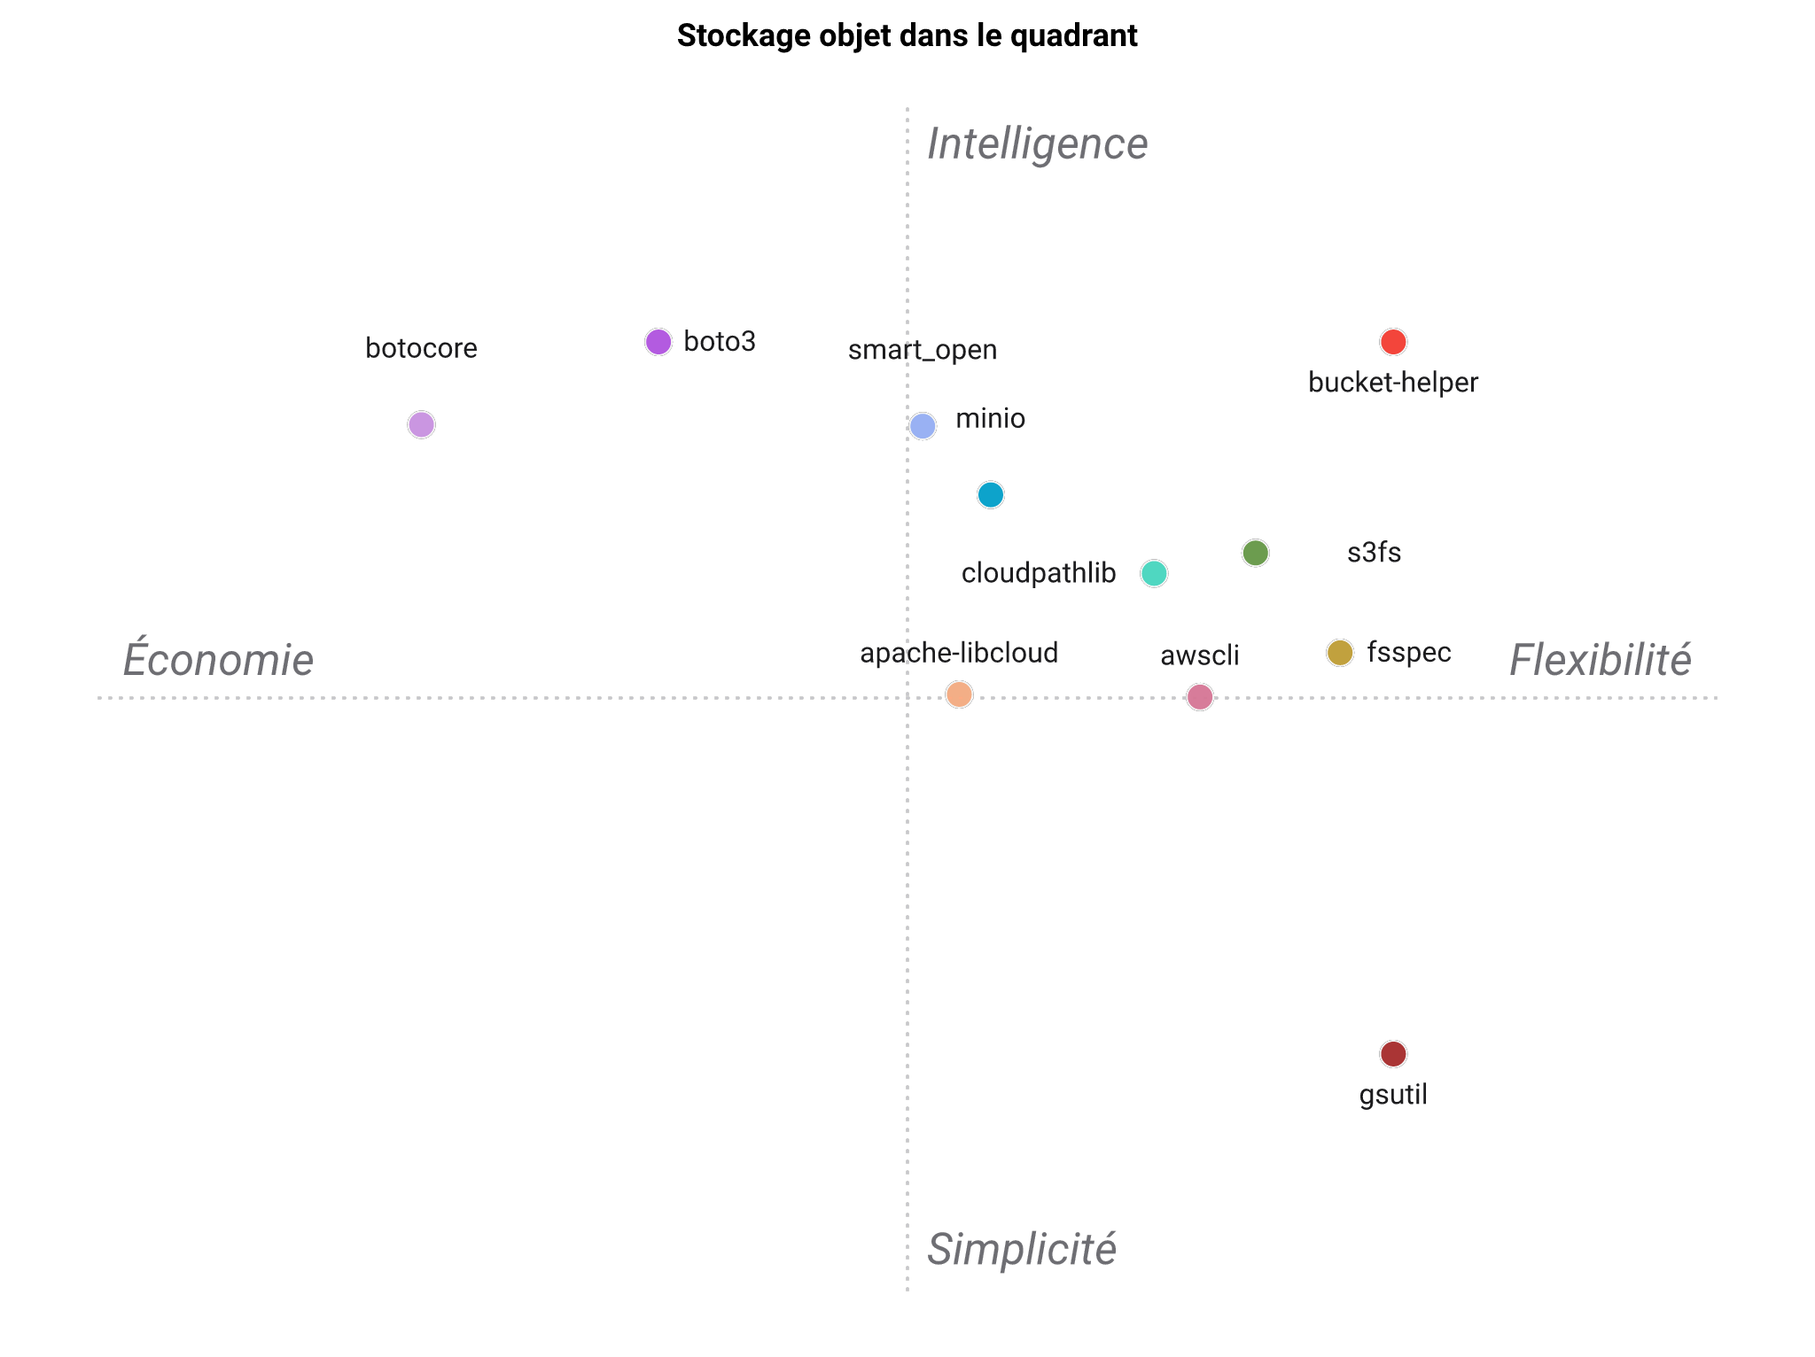
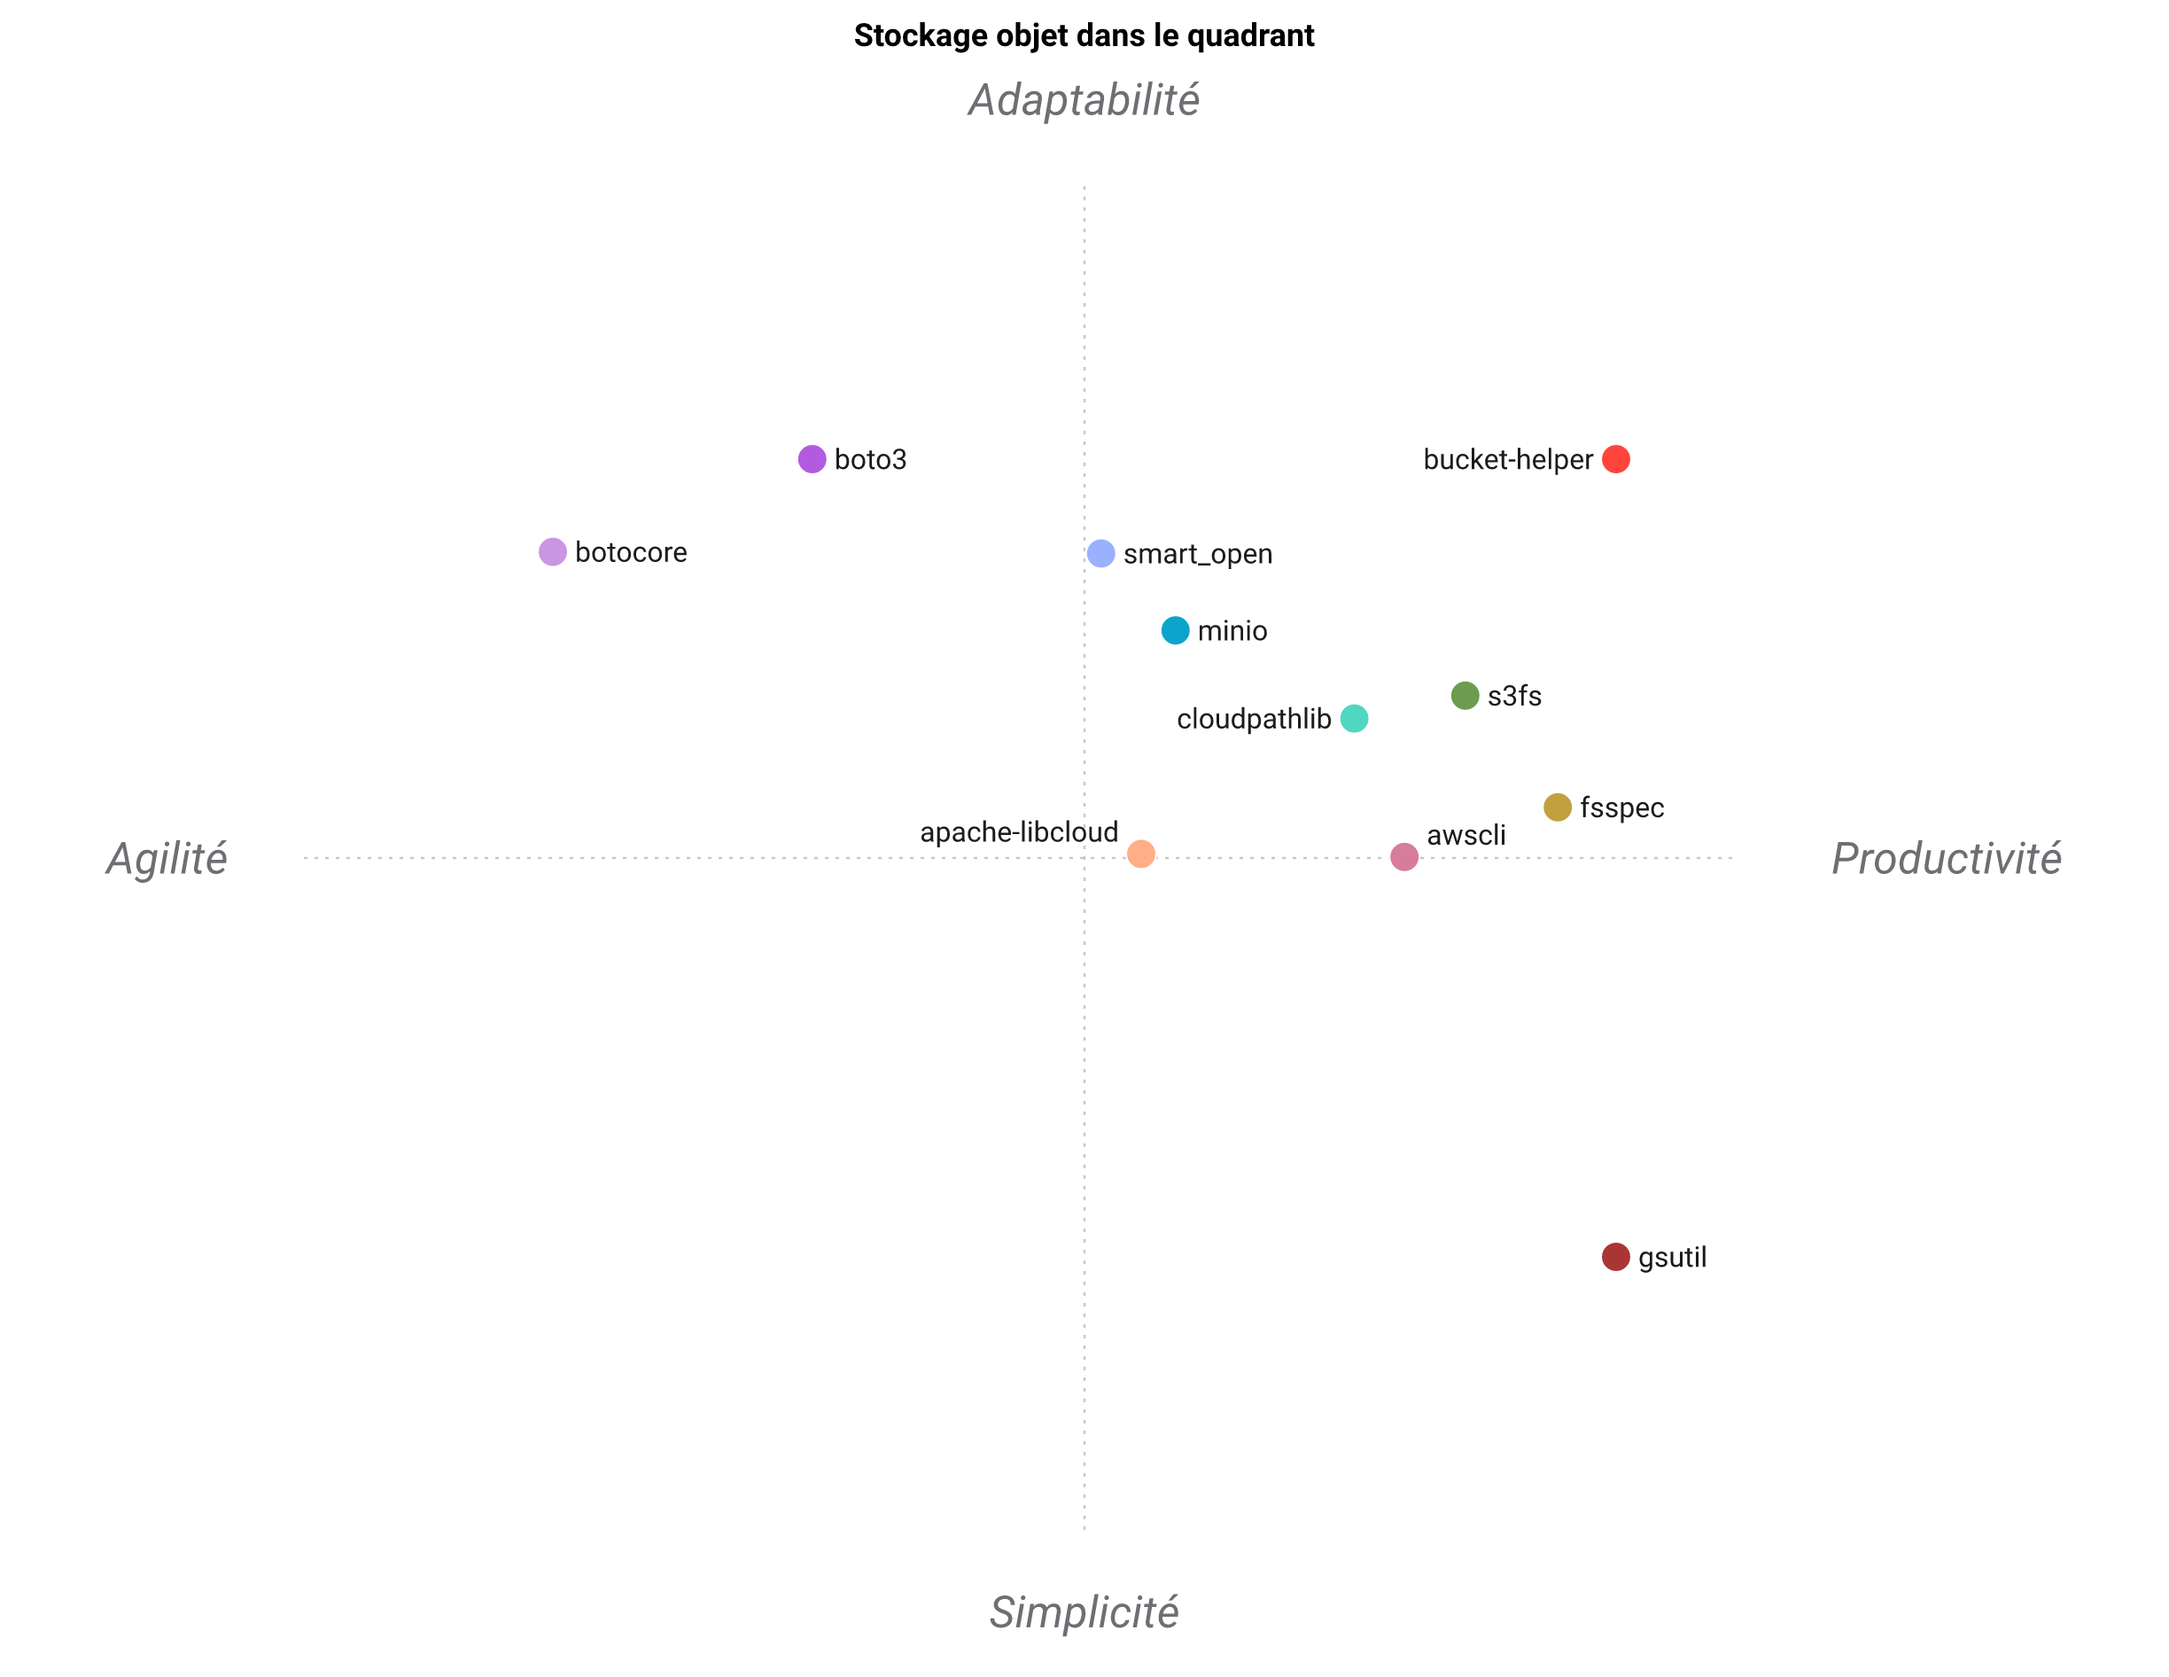
docs: regenerate LANDSCAPE/PAYSAGE positioning figures
Rerun via gen_landscape.py against the current standpoint (Vega retired,
SVG+resvg_py rasterisation pipeline).

diff --git a/PAYSAGE.md b/PAYSAGE.md
@@ -39,7 +39,7 @@ Représentation 2D du tableau ci-dessus.
 
 ![Carte de positionnement](https://raw.githubusercontent.com/warith-harchaoui/bucket-helper/main/assets/paysage.png)
 
-La carte est un résumé en 2D des 8 critères : à lire comme une forme, pas comme un classement. « bucket-helper » se situe dans le coin en haut à droite. Les axes se lisent **Horizontal — Économie ↔ Flexibilité** et **Vertical — Simplicité ↔ Intelligence**.
+La carte est un résumé en 2D des 8 critères : à lire comme une forme, pas comme un classement. « bucket-helper » se situe dans le coin en haut à droite. Les axes se lisent **Horizontal — Agilité ↔ Productivité** et **Vertical — Simplicité ↔ Adaptabilité**.
 <!-- FIGURE:END -->
 
 ## Positionnement

diff --git a/LANDSCAPE.md b/LANDSCAPE.md
@@ -37,7 +37,7 @@ just reflects fit to *this* niche.
 
 ![Positioning map](https://raw.githubusercontent.com/warith-harchaoui/bucket-helper/main/assets/landscape.png)
 
-The map is a 2-D summary of the eight criteria, so read it as a shape, not a scoreboard. `bucket-helper` is at the top-right corner. The axes read **Horizontal — Ease of Setup ↔ User-Friendly** and **Vertical — Simplicity ↔ Scalability**.
+The map is a 2-D summary of the eight criteria, so read it as a shape, not a scoreboard. `bucket-helper` is at the top-right corner. The axes read **Horizontal — Adaptable ↔ Accessible** and **Vertical — Streamlined ↔ Versatile**.
 <!-- FIGURE:END -->
 
 ## Positioning
